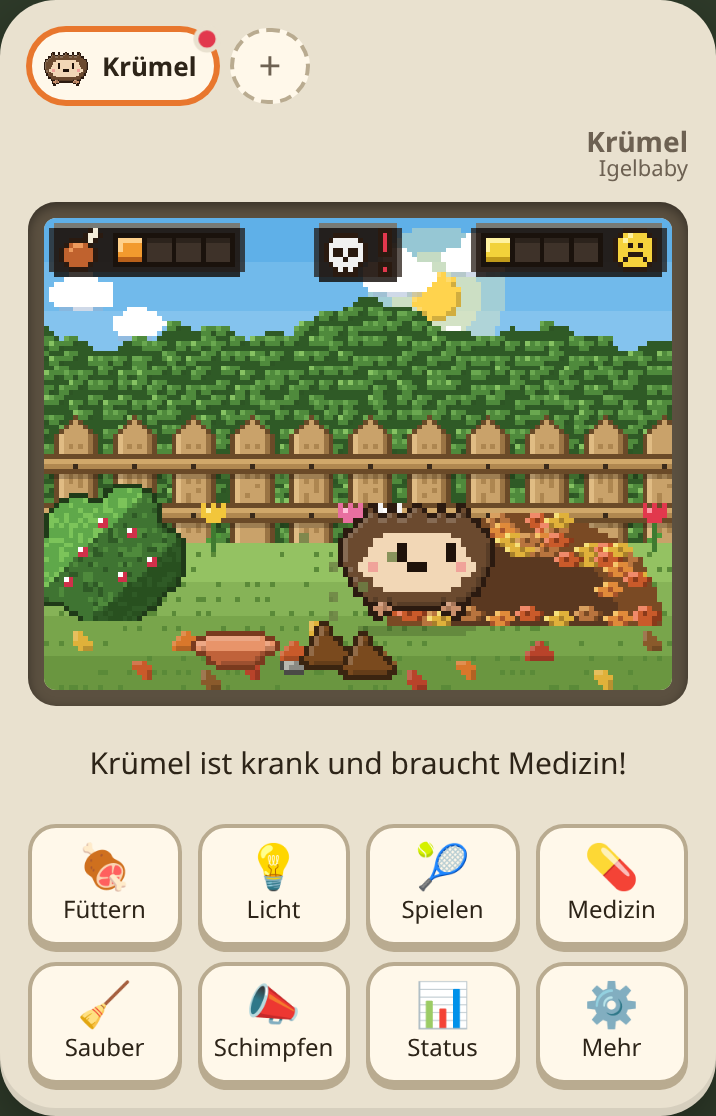
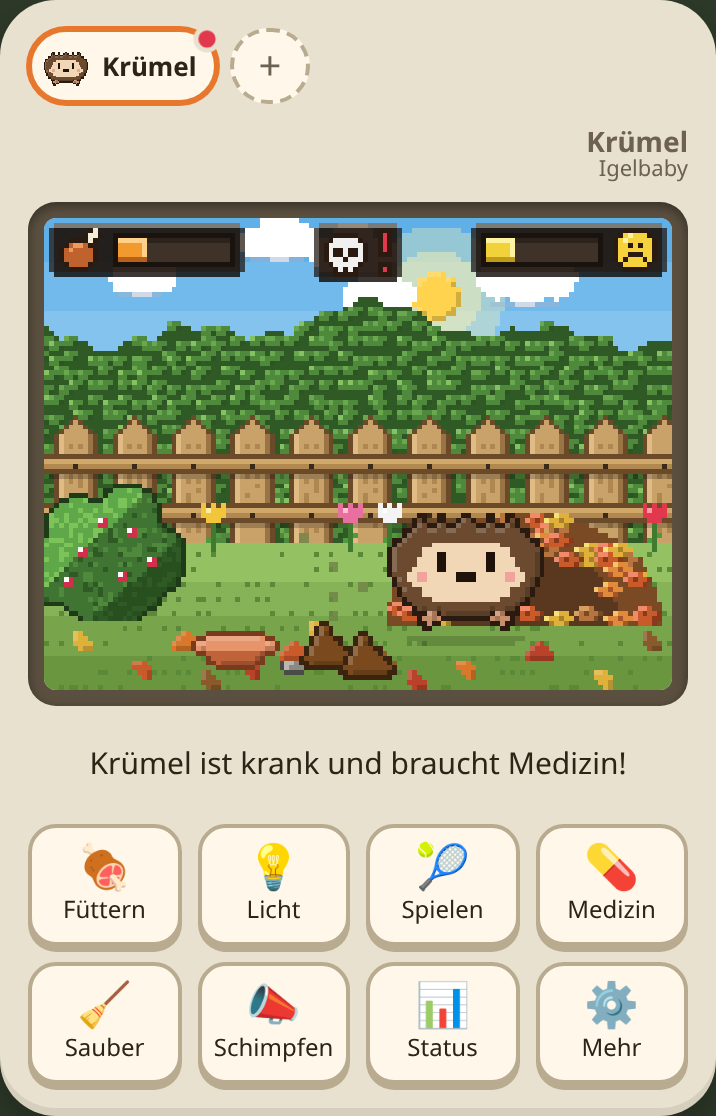
Durchgehende HUD-Leisten statt 4 Segmenten; Status mit Prozentbalken

diff --git a/src/render/scene.ts b/src/render/scene.ts
@@ -381,16 +381,15 @@ export class Scene {
     const ctx = this.ctx;
     const PX = 1 / RES;
     if (p.stage !== 'egg') {
-      const food = hearts(p.hunger);
       const mood = hearts(p.happy);
       // links: Sättigung
       hudPanel(ctx, 0.5, 0.5, 40, 11);
       drawPixels(ctx, HUD_MEAT, HUD_COLORS, 0.5 + 2 * PX, 0.5 + PX);
-      this.drawBar(0.5 + 13 * PX, 0.5 + 2 * PX, food, ['#ffd08a', '#f29a2e', '#b8601a'], t);
+      this.drawBar(0.5 + 13 * PX, 0.5 + 2 * PX, p.hunger / RULES.hearts, ['#ffd08a', '#f29a2e', '#b8601a'], t);
       // rechts: Laune (Gesicht passend zur Stimmung)
       const rx = SCREEN_W - 0.5 - 40 * PX;
       hudPanel(ctx, rx, 0.5, 40, 11);
-      this.drawBar(rx + 2 * PX, 0.5 + 2 * PX, mood, ['#fff2a0', '#f2d23a', '#c09a1a'], t);
+      this.drawBar(rx + 2 * PX, 0.5 + 2 * PX, p.happy / RULES.hearts, ['#fff2a0', '#f2d23a', '#c09a1a'], t);
       drawPixels(ctx, mood >= 3 ? HUD_HAPPY : mood === 2 ? HUD_OK : HUD_SAD, HUD_COLORS, rx + 29 * PX, 0.5 + PX);
     }
     // Mitte: krank / ruft
@@ -409,30 +408,32 @@ export class Scene {
     }
   }
 
-  /** Leiste mit 4 Segmenten (je 5×5 Bildpixel), Glanz oben, Schatten unten; rot blinkend bei 0–1 */
-  private drawBar(x: number, y: number, filled: number, shades: [string, string, string], t: number) {
+  /** durchgehende Leiste (0..1), Glanz oben, Schatten unten; rot blinkend bei höchstens 25 % */
+  private drawBar(x: number, y: number, frac: number, shades: [string, string, string], t: number) {
     const ctx = this.ctx;
     const PX = 1 / RES;
-    const low = filled <= 1 && Math.floor(t / 400) % 2 === 0;
+    const INNER = 23; // Bildpixel
+    const f = Math.max(0, Math.min(1, frac));
+    const low = f <= 0.25 && Math.floor(t / 400) % 2 === 0;
     const [hi, mid, lo] = low ? ['#ff9aa6', '#e2384d', '#9a1c2c'] : shades;
     ctx.fillStyle = '#1a120c';
-    ctx.fillRect(x, y, 25 * PX, 7 * PX);
-    for (let i = 0; i < 4; i++) {
-      const sx = x + PX + i * 6 * PX;
-      const sy = y + PX;
-      if (i < filled) {
-        ctx.fillStyle = mid;
-        ctx.fillRect(sx, sy, 5 * PX, 5 * PX);
+    ctx.fillRect(x, y, (INNER + 2) * PX, 7 * PX);
+    ctx.fillStyle = '#3e3229';
+    ctx.fillRect(x + PX, y + PX, INNER * PX, 5 * PX);
+    ctx.fillStyle = '#2c231c';
+    ctx.fillRect(x + PX, y + PX, INNER * PX, PX);
+    const w = Math.round(f * INNER);
+    if (w > 0) {
+      ctx.fillStyle = mid;
+      ctx.fillRect(x + PX, y + PX, w * PX, 5 * PX);
+      ctx.fillStyle = hi;
+      ctx.fillRect(x + PX, y + PX, w * PX, PX);
+      ctx.fillStyle = lo;
+      ctx.fillRect(x + PX, y + 5 * PX, w * PX, PX);
+      // helle Kante am Ende der Füllung
+      if (w < INNER) {
         ctx.fillStyle = hi;
-        ctx.fillRect(sx, sy, 5 * PX, PX);
-        ctx.fillRect(sx, sy, PX, 3 * PX);
-        ctx.fillStyle = lo;
-        ctx.fillRect(sx, sy + 4 * PX, 5 * PX, PX);
-      } else {
-        ctx.fillStyle = '#3e3229';
-        ctx.fillRect(sx, sy, 5 * PX, 5 * PX);
-        ctx.fillStyle = '#2c231c';
-        ctx.fillRect(sx, sy, 5 * PX, PX);
+        ctx.fillRect(x + w * PX, y + 2 * PX, PX, 3 * PX);
       }
     }
   }

diff --git a/src/ui/app.ts b/src/ui/app.ts
@@ -18,7 +18,7 @@ import {
 } from '../engine/actions';
 import { DAY, MIN, RULES } from '../engine/config';
 import { advance, ageDays, isOverweight, SimEvent, sleptLast24h } from '../engine/sim';
-import { CallType, GameState, MAX_PETS, Pet, activePet, hearts } from '../engine/state';
+import { CallType, GameState, MAX_PETS, Pet, activePet } from '../engine/state';
 import { notify, requestNotifications } from '../notify';
 import { drawMap, eggColors, eggMap, hiResCanvas, petSprite } from '../render/pixels';
 import { Scene } from '../render/scene';
@@ -517,8 +517,8 @@ export class App {
         rows.push(['Nächste Phase in', duration(left)]);
       }
       rows.push(
-        ['Sättigung', segments(hearts(p.hunger))],
-        ['Laune', segments(hearts(p.happy))],
+        ['Sättigung', meter(p.hunger / 4)],
+        ['Laune', meter(p.happy / 4)],
         ['Müdigkeit', `${Math.round(p.tiredness)} %`],
         ['Schlaf (24 h)', duration(sleptLast24h(p, this.s.clock) * MIN)],
         ['Schlaf bis ausgeschlafen', duration((RULES.sleepNeedMin - p.sleptInCycleMin) * MIN)],
@@ -603,8 +603,10 @@ export class App {
   }
 }
 
-function segments(n: number) {
-  return '▰'.repeat(n) + '▱'.repeat(4 - n) + ` (${n}/4)`;
+function meter(frac: number) {
+  const f = Math.max(0, Math.min(1, frac));
+  const n = Math.round(f * 10);
+  return '▰'.repeat(n) + '▱'.repeat(10 - n) + ` ${Math.round(f * 100)} %`;
 }
 
 function btn(label: string, fn: () => void, cls = '') {

diff --git a/SPEC.md b/SPEC.md
@@ -26,8 +26,8 @@ Abschnitte mit **(ergänzt)** stammen nicht aus der ursprünglichen Anforderung,
 
 | Wert | Bereich | Beschreibung |
 |---|---|---|
-| Sättigung (Hunger) | Leiste mit 4 Segmenten | Sinkt mit der Zeit. Mahlzeiten füllen sie wieder auf. |
-| Laune | Leiste mit 4 Segmenten | Sinkt mit der Zeit. Spielen und Snacks heben sie. (ergänzt) |
+| Sättigung (Hunger) | durchgehende Leiste (0–4, intern als Kommazahl) | Sinkt mit der Zeit. Mahlzeiten füllen sie wieder auf. |
+| Laune | durchgehende Leiste (0–4, intern als Kommazahl) | Sinkt mit der Zeit. Spielen und Snacks heben sie. (ergänzt) |
 | Müdigkeit | 0–100 % | Steigt, solange es wach ist, und sinkt im Schlaf. |
 | Gewicht | in g/kg | Steigt durch Essen und sinkt durch Spielen. (ergänzt) Angezeigt wird ein **realistisches Gewicht je Art** bei Normalgewicht: Fuchs 100 g → 1 kg → 3 kg → 6 kg, Igel 25 g → 150 g → 450 g → 1 kg, Katze 100 g → 1 kg → 2,5 kg → 4,5 kg (Baby → Kind → Teenager → Erwachsen). |
 | Alter | in Tagen | Zählt ab dem Schlüpfen. |
@@ -38,9 +38,10 @@ Abschnitte mit **(ergänzt)** stammen nicht aus der ursprünglichen Anforderung,
 Den Status kann man jederzeit über einen eigenen Statusbildschirm ansehen.
 
 **HUD:** Sättigung und Laune stehen wie in einem Videospiel **oben im Spielbild**. Alles ist im feinen Pixelraster gezeichnet und sitzt in dunklen Pixel-Rahmen mit abgeschrägten Ecken und heller Oberkante.
-- **Links oben: Sättigung.** Ein Fleisch-Knochen-Symbol und eine Leiste mit **4 Segmenten** (orange).
-- **Rechts oben: Laune.** Eine Leiste mit 4 Segmenten (gelb) und ein **Smiley, das zur Stimmung passt**: lachend ab 3 Segmenten, neutral bei 2, traurig bei 0–1.
-- Die Segmente haben Glanz oben und Schatten unten. Ist nur noch ein Segment voll, wird die Leiste **rot und blinkt**.
+- **Links oben: Sättigung.** Ein Fleisch-Knochen-Symbol und eine **durchgehende Leiste** (orange), die stufenlos mit dem Wert sinkt und steigt.
+- **Rechts oben: Laune.** Eine durchgehende Leiste (gelb) und ein **Smiley, das zur Stimmung passt**: lachend, neutral oder traurig.
+- Die Leisten haben Glanz oben, Schatten unten und eine helle Kante am Ende der Füllung. Bei **höchstens 25 %** werden sie **rot und blinken**.
+- Im Statusbildschirm stehen Sättigung und Laune als Balken mit Prozentangabe.
 - **Oben in der Mitte** stehen die Warnsymbole: ein Totenkopf bei Krankheit und ein blinkendes Ausrufezeichen beim Rufen.
 - Das HUD bleibt auch nachts und bei Licht aus hell.
 
@@ -103,12 +104,12 @@ Den Status kann man jederzeit über einen eigenen Statusbildschirm ansehen.
 
 ### 6.1 Füttern
 
-- **Mahlzeit:** +1 Segment Sättigung, +1 g Gewicht.
-- **Snack** (ergänzt): +1 Segment Laune, +2 g Gewicht. Zu viele Snacks (Vorschlag: mehr als 3 pro Tag) machen das Tier übergewichtig, und es wird eher krank.
+- **Mahlzeit:** +25 % Sättigung, +1 g Gewicht.
+- **Snack** (ergänzt): +25 % Laune, +2 g Gewicht. Zu viele Snacks (Vorschlag: mehr als 3 pro Tag) machen das Tier übergewichtig, und es wird eher krank.
 - Das Tier braucht **3 Mahlzeiten pro Tag**. Der Hunger sinkt gleichmäßig über den Tag.
-- Ist die Sättigung voll (4 Segmente), lehnt das Tier weiteres Essen ab.
+- Ist die Sättigung voll (100 %), lehnt das Tier weiteres Essen ab.
 - **Steht der Hunger zu lange auf 0** (Vorschlag: 2 h), **wird das Tier krank.**
-- Nach dem **Ausschlafen** ist das Tier hungrig (Hunger auf maximal 1 Segment). Wird es zu früh geweckt, bleibt der Hunger unverändert.
+- Nach dem **Ausschlafen** ist das Tier hungrig (Hunger auf maximal 25 %). Wird es zu früh geweckt, bleibt der Hunger unverändert.
 
 ### 6.2 Schlafen
 
@@ -120,7 +121,7 @@ Den Status kann man jederzeit über einen eigenen Statusbildschirm ansehen.
 - **Müdigkeit beim Schlüpfen:** Sie richtet sich nach der Uhrzeit, so als wäre das Tier um 7 Uhr ausgeschlafen aufgewacht. Die Müdigkeit steigt im Wachzustand in 16 Stunden von 0 auf 100 %. Schlüpft es zum Beispiel um 18 Uhr, startet es mit etwa 69 % und schläft gegen 23 Uhr ein. Schlüpft es nachts zwischen 23 und 7 Uhr, ist es sofort müde.
 - Ist die Müdigkeit bei 100 %, schläft es von selbst ein. Das Licht bleibt dabei an, bis man es ausmacht.
 - **Sobald es insgesamt 8 Stunden geschlafen hat, wacht es automatisch auf.** Nickerchen zählen mit. Dieses Aufwachen gilt als „morgens“, danach beginnt der Zähler wieder bei 0.
-- Man kann es auch vorher wecken. Dann hat es **richtig schlechte Laune (−2 Segmente)**, aber nicht mehr Hunger als vorher. Was es bis dahin geschlafen hat, zählt für die 8 Stunden mit.
+- Man kann es auch vorher wecken. Dann hat es **richtig schlechte Laune (−50 %)**, aber nicht mehr Hunger als vorher. Was es bis dahin geschlafen hat, zählt für die 8 Stunden mit.
 - **Nach dem Ausschlafen hat es Hunger**, siehe 6.1.
 - Bekommt es zu wenig Schlaf (Vorschlag: weniger als 6 h in 24 h), sinkt die Laune stärker. Dauert das länger an, wird es krank (ergänzt).
 
@@ -153,7 +154,7 @@ Ist die Laune zu lange auf 0, zählt das als Pflegefehler (ergänzt).
 
 - Ist das Tier krank, sieht man das an einem Symbol (zum Beispiel einem Totenkopf oder einem Thermometer), und es bewegt sich träge.
 - Um es wieder gesund zu machen, **muss man ihm Medizin geben**. Vorschlag: Je nach Schwere sind 1–2 Dosen nötig (ergänzt).
-- **Unnötige Medizin:** Gibt man einem gesunden Tier Medizin, zählt das als **Pflegefehler**, und die Laune sinkt um 1 Segment.
+- **Unnötige Medizin:** Gibt man einem gesunden Tier Medizin, zählt das als **Pflegefehler**, und die Laune sinkt um 25 %.
 - Ein krankes Tier hat keine Lust zu spielen und isst weniger (ergänzt).
 
 ### 6.6 Disziplin (ergänzt)
@@ -199,8 +200,8 @@ Nach dem Anwenden verschwinden die Parameter aus der Adresse. Unten erscheint ei
 |---|---|---|
 | `pet` | Name, Nummer (ab 1) oder `alle` | Welches Tier gemeint ist. Ohne diesen Parameter gilt es für das angezeigte Tier. |
 | `max` | 1 | Alles perfekt: satt, gute Laune, gesund, sauber, ausgeschlafen, 100 % Disziplin, Normalgewicht |
-| `happy` | 0–4 | Laune (Segmente) |
-| `hunger` | 0–4 | Sättigung (Segmente) |
+| `happy` | 0–4 | Laune (0–4 entspricht 0–100 %) |
+| `hunger` | 0–4 | Sättigung (0–4 entspricht 0–100 %) |
 | `sick` | 1 / 0 | krank machen bzw. heilen |
 | `tired` | 0–100 | Müdigkeit in % |
 | `sleep` | 1 / 0 | schlafen schicken (Licht aus) bzw. aufwecken (gilt als ausgeschlafen) |
